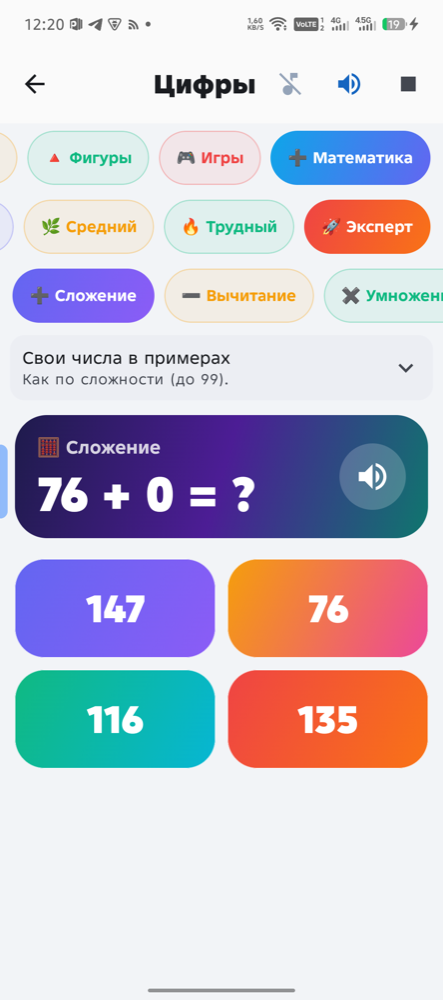
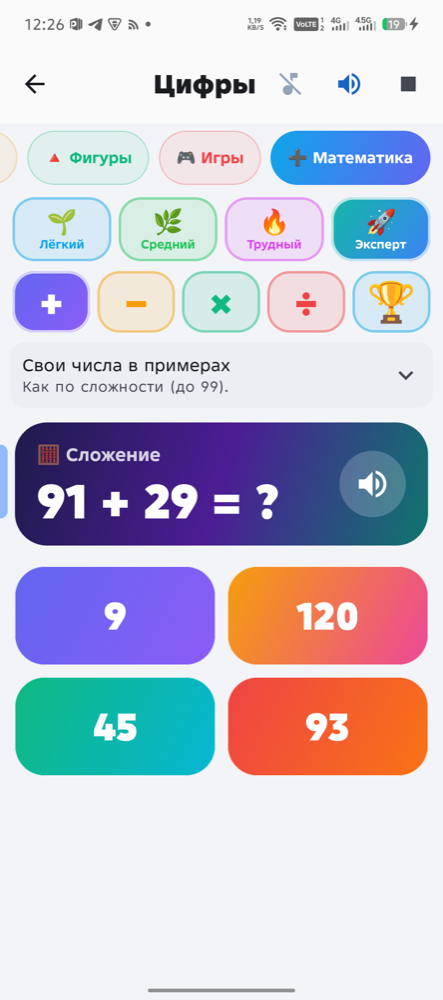
Математика: вкладки действий и сложности — картинки, все помещаются на экран.

diff --git a/app/src/main/java/com/example/bible/ui/CifryScreen.kt b/app/src/main/java/com/example/bible/ui/CifryScreen.kt
@@ -1,6 +1,8 @@
 package com.example.bible.ui
 
 import androidx.compose.ui.graphics.Brush
+import androidx.compose.ui.semantics.semantics
+import androidx.compose.ui.semantics.contentDescription
 import androidx.compose.foundation.gestures.detectTapGestures
 import androidx.compose.material.icons.automirrored.filled.Backspace
 import androidx.compose.material.icons.filled.Delete
@@ -1086,22 +1088,46 @@ private fun CifryMathSection(
     val difficulty by mathRepo.difficulty.collectAsStateWithLifecycle(initialValue = 0)
     val history by mathRepo.solvedHistory.collectAsStateWithLifecycle(initialValue = emptyList())
     val subTabs = remember {
-        listOf("➕ Сложение", "➖ Вычитание", "✖ Умножение", "➗ Деление", "🏆 Мои достижения")
+        listOf("+" to "Сложение", "−" to "Вычитание", "×" to "Умножение", "÷" to "Деление", "🏆" to "Мои достижения")
     }
     val mathSectionPager = rememberPagerState(pageCount = { subTabs.size })
     val subScope = rememberCoroutineScope()
 
     Column(Modifier.fillMaxSize()) {
-        KidsTabs(
-            tabs = listOf("🌱 Лёгкий", "🌿 Средний", "🔥 Трудный", "🚀 Эксперт"),
-            selected = difficulty,
-            onSelect = { i -> subScope.launch { mathRepo.setDifficulty(i) } },
-        )
-        KidsTabs(
-            tabs = subTabs,
-            selected = mathSectionPager.currentPage,
-            onSelect = { i -> subScope.launch { mathSectionPager.animateScrollToPage(i) } },
-        )
+        Row(
+            Modifier
+                .fillMaxWidth()
+                .padding(horizontal = 10.dp, vertical = 4.dp),
+            horizontalArrangement = Arrangement.spacedBy(6.dp),
+        ) {
+            listOf("🌱" to "Лёгкий", "🌿" to "Средний", "🔥" to "Трудный", "🚀" to "Эксперт").forEachIndexed { i, (emoji, label) ->
+                CifryPictureTab(
+                    symbol = emoji,
+                    caption = label,
+                    description = label,
+                    gradient = kidsGradient(i + 4),
+                    selected = difficulty == i,
+                    onClick = { subScope.launch { mathRepo.setDifficulty(i) } },
+                )
+            }
+        }
+        Row(
+            Modifier
+                .fillMaxWidth()
+                .padding(horizontal = 10.dp, vertical = 4.dp),
+            horizontalArrangement = Arrangement.spacedBy(6.dp),
+        ) {
+            subTabs.forEachIndexed { i, (symbol, label) ->
+                CifryPictureTab(
+                    symbol = symbol,
+                    caption = null,
+                    description = label,
+                    gradient = kidsGradient(i),
+                    selected = mathSectionPager.currentPage == i,
+                    onClick = { subScope.launch { mathSectionPager.animateScrollToPage(i) } },
+                )
+            }
+        }
         HorizontalPager(
             state = mathSectionPager,
             beyondViewportPageCount = 0,
@@ -1192,6 +1218,55 @@ private fun CifryMathSection(
                 }
                 else -> CifryMathAchievementsTab(history = history)
             }
+        }
+    }
+}
+
+/** Вкладка-картинка: крупный знак, без прокрутки — все вкладки делят ширину поровну. */
+@Composable
+private fun RowScope.CifryPictureTab(
+    symbol: String,
+    caption: String?,
+    description: String,
+    gradient: List<Color>,
+    selected: Boolean,
+    onClick: () -> Unit,
+) {
+    val shape = RoundedCornerShape(18.dp)
+    Column(
+        Modifier
+            .weight(1f)
+            .height(if (caption != null) 52.dp else 50.dp)
+            .clip(shape)
+            .then(
+                if (selected) Modifier
+                    .background(Brush.linearGradient(gradient))
+                    .border(2.dp, Color.White.copy(alpha = 0.7f), shape)
+                else Modifier
+                    .background(gradient.first().copy(alpha = 0.12f))
+                    .border(2.dp, gradient.first().copy(alpha = 0.45f), shape),
+            )
+            .semantics { contentDescription = description }
+            .clickable(onClick = onClick),
+        horizontalAlignment = Alignment.CenterHorizontally,
+        verticalArrangement = Arrangement.Center,
+    ) {
+        Text(
+            symbol,
+            fontSize = if (caption != null) 20.sp else 32.sp,
+            lineHeight = if (caption != null) 22.sp else 34.sp,
+            fontWeight = FontWeight.Black,
+            color = if (selected) Color.White else gradient.first(),
+        )
+        if (caption != null) {
+            Text(
+                caption,
+                fontSize = 10.sp,
+                lineHeight = 11.sp,
+                fontWeight = FontWeight.Bold,
+                maxLines = 1,
+                color = if (selected) Color.White else gradient.first(),
+            )
         }
     }
 }
